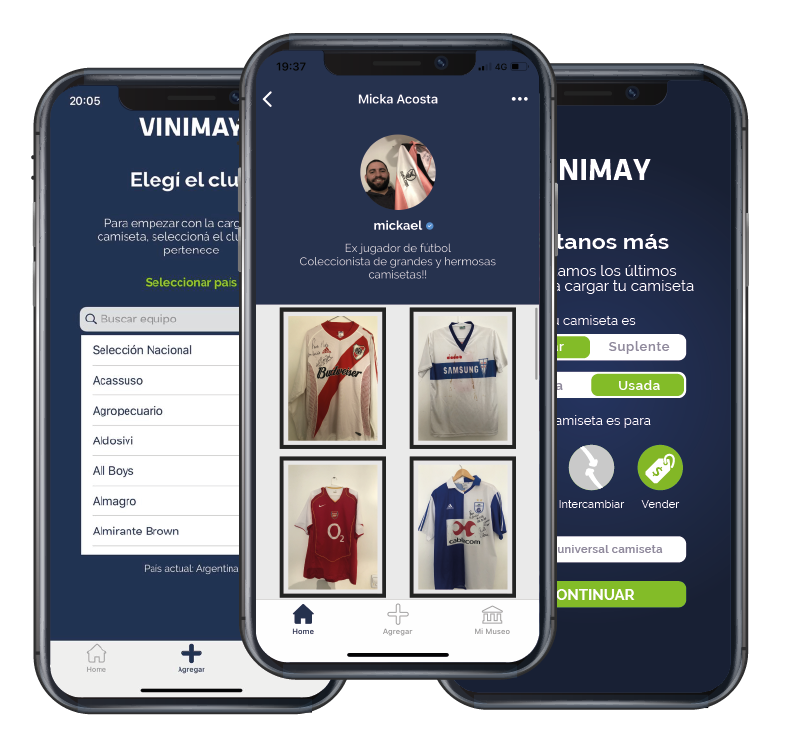
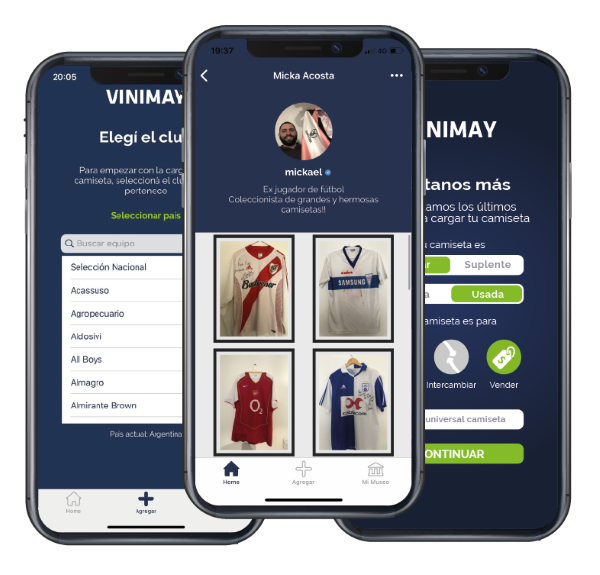
ultimos cambios

diff --git a/src/Components/Community/TeamVini.js b/src/Components/Community/TeamVini.js
@@ -1,7 +1,6 @@
 import React from 'react'
 import styled from 'styled-components'
-// import Tem from '../../images/ministry-3.jpg'
-import Tem from '../../images/archivos-17.png'
+import Tem from '../../images/archivos-17.jpg'
 import Log from '../../images/logo-sin-camiseta.png'
 
 import CardTeam from './CardTeam'

diff --git a/src/App.css b/src/App.css
@@ -277,7 +277,7 @@ body {
 }
 
 .page-comunidad .moci {
-	left: 6em !important;
+	left: 2em !important;
 	margin-top: 25px;
 }
 
@@ -572,6 +572,11 @@ body {
 
 
 @media (max-width: 768px) {
+
+	.navbar {
+		top: 25px !important;
+		background: #171E36 !important;
+	}
 
 	.nav-header img {
 		height: 30px !important;

diff --git a/src/Components/NavBar.js b/src/Components/NavBar.js
@@ -157,7 +157,7 @@ const NavBar2 = styled.div`
             justify-content:center;
             align-self: center;
             border-radius: 30px;
-            background-color: #171E36;
+            /*background-color: #171E36;*/
             z-Index: 30000;
             height: 70px;
             width: 160px;

diff --git a/src/Pages/Inicio.js b/src/Pages/Inicio.js
@@ -1,5 +1,5 @@
 import React, {useState}  from 'react'
-import Nov from '../images/archivos-17.png'
+import Nov from '../images/archivos-17.jpg'
 //import Mockup from '../images/mockup-banner.png'
 import Mockup from '../images/mockups/mockup-banner.png'
 

diff --git a/src/Components/Community/AcordionTile.js b/src/Components/Community/AcordionTile.js
@@ -60,6 +60,7 @@ const Container = styled.div`
         font-size: 20px;
         color:#171E36;
         margin:0;
+        padding-right:15px;
     }
     h2{
         font-size: 625px;
